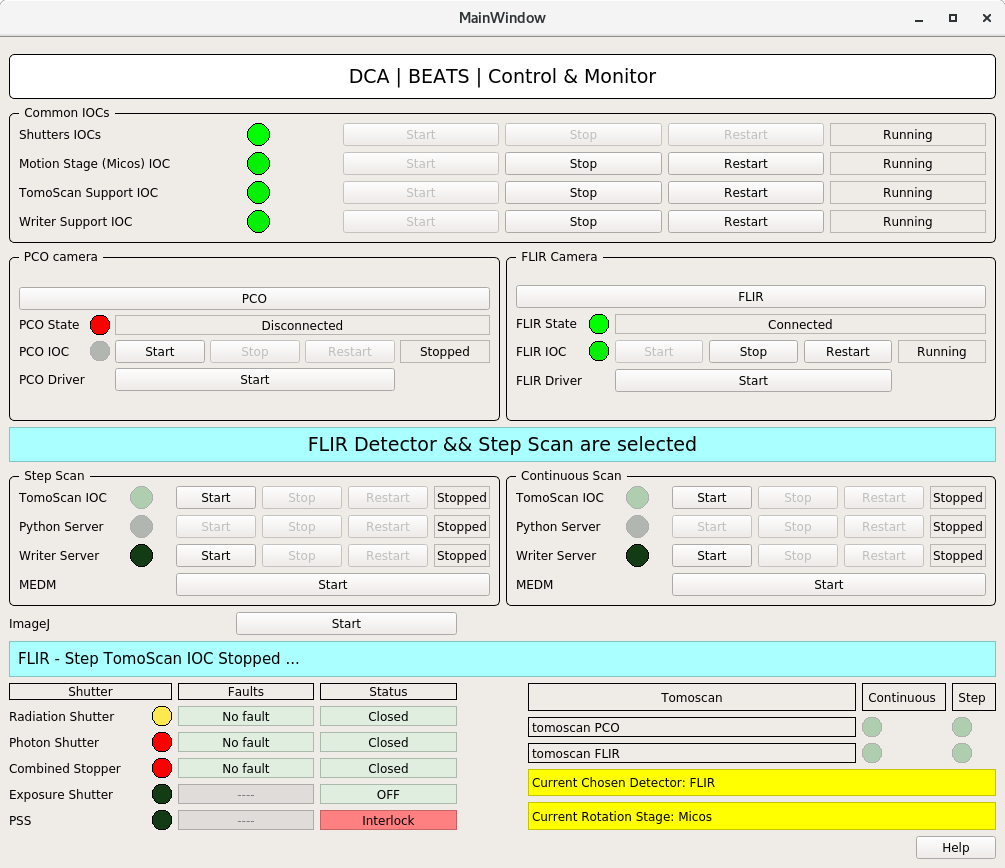
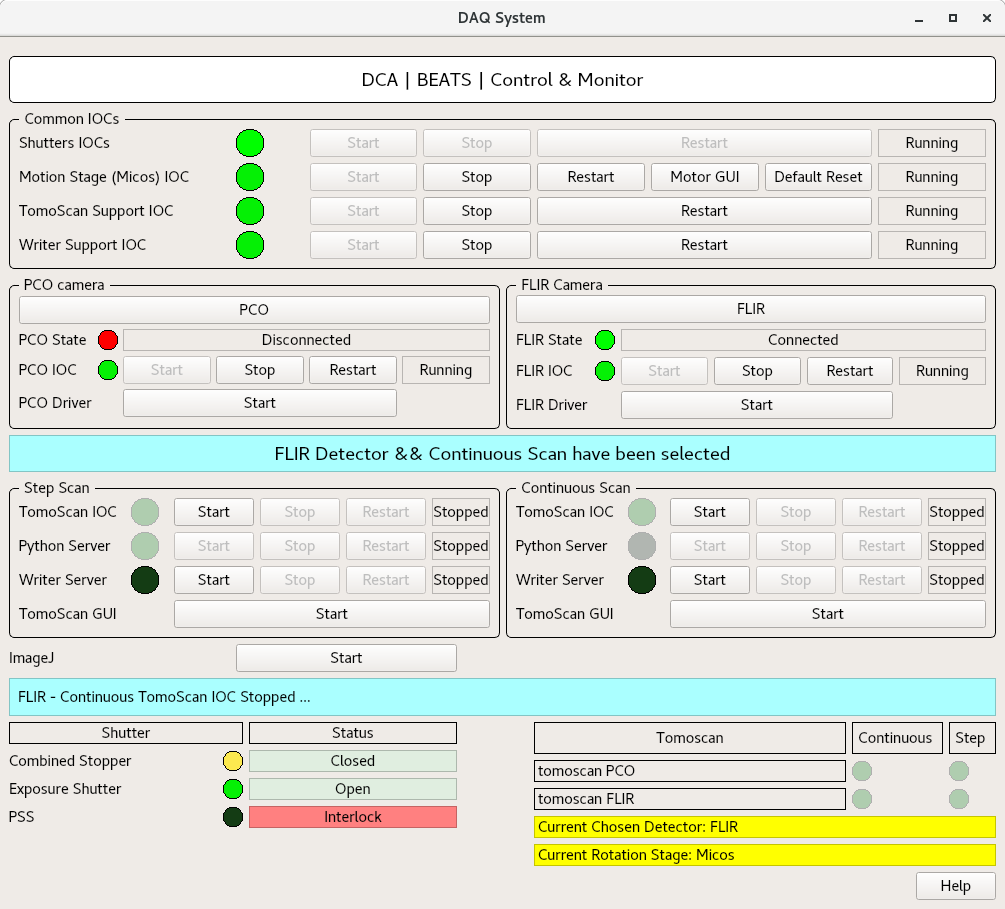
update BEATS dashboard readthedocs

Changed region(s): [[0.0, 0.0, 1.0, 0.9954]]

diff --git a/docs/source/dashboard_mainWindow.rst b/docs/source/dashboard_mainWindow.rst
@@ -25,29 +25,29 @@ The BEATS Dashboard shown below is divided into three sections for controlling a
    
 
 Controlling Sections:
-* 1) Common IOCs: These are the mandatory EPICS BEATS IOCs for scanning.
+   * 1) Common IOCs: These are the mandatory EPICS BEATS IOCs for scanning.
       -Shutter IOC.
       -Motor IOC.
       -TomoScan Support IOC.
       -Writer Support IOC.
 
-* 2) Detector Type: The available detectors for the scanning.
+   * 2) Detector Type: The available detectors for the scanning.
       -Detector Status (indicate if the (hardware, Software) is connected or not (Power, Ethernet, IOC)).
       -Detector IOC.
       -Detector Driver.
 
-* 3) Scanning Methodology: The available scanning techniques for BEATS beamline.
+   * 3) Scanning Methodology: The available scanning techniques for BEATS beamline.
       -Step Scan:
          * TomoScan IOC.
          * Python Server.
          * writer Server.
-         * MEDM (TomoScan)
+         * MEDM (TomoScan MEDM)
 
       -Continuous Scan:
          * TomoScan IOC.
          * Python Server.
          * writer Server.
-         * MEDM (TomoScan)
+         * MEDM (TomoScan MEDM)
 
 
 Monitoring Sections:
@@ -81,9 +81,7 @@ To change the detector type or scanning technique, the current process (TomoScan
 
 .. warning:: If one of the common IOCs is stopped, the other controlling sections will be disabled until all the common IOCs are running.
 
-.. warning:: If the radiation or photon shutters are closed or PSS is interlocked, the other controlling sections will be disabled until all the common IOCs are running.
-
-.. warning:: If the radiation, photon or combined stopper shutters have faults, the other controlling sections will be disabled until all the common IOCs are running.
+.. warning:: If the combined stopper shutter has fault or PSS is interlocked, the DAQ Tomoscan is available only on *Testing Mode*.
 
 .. note:: In scanning techniques section, the python server (start button) is disabled until the tomoscan IOC is started. 
 
